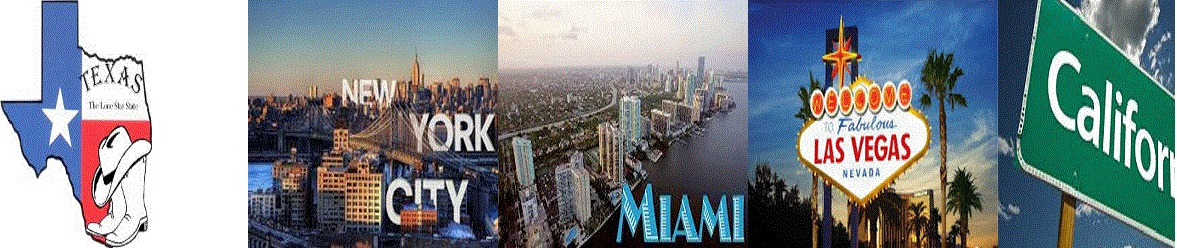
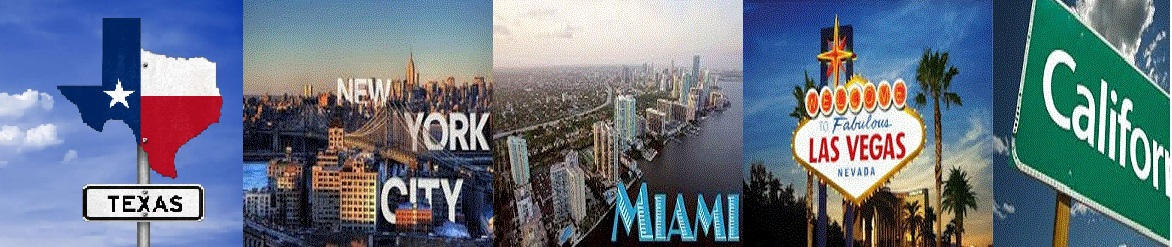
pretty

diff --git a/folderD/a.html b/folderD/a.html
@@ -1,2 +1,1 @@
-<html>  <body bgcolor=black><header ><img src="../folderD/upload/1.jpg" width="70%" height="250px"></header> <table  width="70%" border =2 cellpadding="2" ><tr><td align="center" insert tex
-TEXAS</td><td align="center">  <img src = "../folderD/upload/1.jpg" > </td></tr></table><a href="1.html">   Home  </a></body></html>
+<html>  <body bgcolor=pink><center><header><img src="../folderD/upload/1.jpg" width="80%" height="300px"></header></center> <center><table width="80%" border =2 cellpadding="2"><tr><td align="center">Texas City1</td><td align="center">  <img src = "../folderD/upload/7.jpg" > </td></tr><tr><td align="center"> Texas City1</td><td align="center">  <img src = "../folderD/upload/10.jpg" > </td></tr></table><a href="1.html">   Home  </a></center></body></html>

diff --git a/folderD/1.html b/folderD/1.html
@@ -1,1 +1,1 @@
-<html>  <body bgcolor=><header ><img src="../folderD/upload/maps.jpg" width="100%" height="250px"></header><table  width="70%" border =2 cellpadding="2"> <tr><td align="center"><h5><a href="a.html">N1 </a> </h5></td><td align="center"><h5><a href="b.html">N2 </a> </h5></td><td align="center"><h5><a href="c.html">N3 </a> </h5></td><td align="center"><h5><a href="d.html">N4 </a> </h5></td></tr></table></body></html>
+<html>  <body bgcolor=purple><header ><img src="../folderD/upload/" width="100%" height="250px"></header><table  width="70%" border =2 cellpadding="2"> <tr><td align="center"><h5><a href="a.html">Texas </a> </h5></td><td align="center"><h5><a href="b.html">New York </a> </h5></td></tr></table></body></html>

diff --git a/folderD/b.html b/folderD/b.html
@@ -1,2 +1,13 @@
-<html>  <body bgcolor=pink> <header ><img src="../folderD/upload/4.jpg" width="70%" height="250px"></header>    <table  width="70%" border =2 cellpadding="2" ><tr><td align="center" <h4>insert text
-MIAMI</h4></td><td align="center">  <img src = "../folderD/upload/4.jpg" > </td></tr></table><a href="1.html">   Home  </a></body></html>
+<html>
+<body bgcolor=pink>
+<header><img src="../folderD/upload/4.jpg" width="70%" height="250px"></header>
+<table width="70%" border=2 cellpadding="2">
+    <tr>
+        <td align="center"
+        <h4>insert text
+            MIAMI</h4></td>
+        <td align="center"><img src="../folderD/upload/4.jpg"></td>
+    </tr>
+</table>
+<a href="1.html"> Home </a></body>
+</html>

diff --git a/folderD/SecondPage/a.html b/folderD/SecondPage/a.html
@@ -135,7 +135,7 @@
         $(document).ready(function () {
             // bind 'mainHeaderForm' and provide a simple callback function
             $('#mainHeaderForm').ajaxForm(function (data) {
-                new Messi('Your page has benn saved!!!');
+                new Messi('Your page has been saved!!!');
             });
         });
 

diff --git a/folderD/SecondPage/c.html b/folderD/SecondPage/c.html
@@ -135,7 +135,7 @@
         $(document).ready(function () {
             // bind 'mainHeaderForm' and provide a simple callback function
             $('#mainHeaderForm').ajaxForm(function (data) {
-                new Messi('Your page has benn saved!!!');
+                new Messi('Your page has been saved!!!');
             });
         });
 

diff --git a/folderD/SecondPage/e.html b/folderD/SecondPage/e.html
@@ -135,7 +135,7 @@
         $(document).ready(function () {
             // bind 'mainHeaderForm' and provide a simple callback function
             $('#mainHeaderForm').ajaxForm(function (data) {
-                new Messi('Your page has benn saved!!!');
+                new Messi('Your page has been saved!!!');
             });
         });
 

diff --git a/folderD/SecondPage/d.html b/folderD/SecondPage/d.html
@@ -135,7 +135,7 @@
 		$(document).ready(function () {
 			// bind 'mainHeaderForm' and provide a simple callback function
 			$('#mainHeaderForm').ajaxForm(function (data) {
-				new Messi('Your page has benn saved!!!');
+				new Messi('Your page has been saved!!!');
 			});
 		});
 

diff --git a/folderC/MainB.php b/folderC/MainB.php
@@ -1,50 +1,50 @@
 <?php
-$filename="../folderD/b.html";
+$filename = "../folderD/b.html";
 
-if(isset($_FILES["file"]["tmp_name"])){
-@move_uploaded_file($_FILES["file"]["tmp_name"],"../folderD/upload/". $_FILES["file"]["name"]);
-}
-
-if(isset($_FILES["filebb"]["tmp_name"])){
-@move_uploaded_file($_FILES["filebb"]["tmp_name"],"../folderD/upload/". $_FILES["file"]["name"]);
-}
-if(isset($_FILES["filedd"]["tmp_name"])){
-@move_uploaded_file($_FILES["filedd"]["tmp_name"],"../folderD/upload/". $_FILES["file"]["name"]);
-}
-if(isset($_FILES["fileff"]["tmp_name"])){
-@move_uploaded_file($_FILES["fileff"]["tmp_name"],"../folderD/upload/". $_FILES["file"]["name"]);
-}
-if(isset($_FILES["filehh"]["tmp_name"])){
-@move_uploaded_file($_FILES["filehh"]["tmp_name"],"../folderD/upload/". $_FILES["file"]["name"]);
-}
-if(isset($_FILES["filekk"]["tmp_name"])){
-@move_uploaded_file($_FILES["filekk"]["tmp_name"],"../folderD/upload/". $_FILES["file"]["name"]);
+if (isset($_FILES["file"]["tmp_name"])) {
+    @move_uploaded_file($_FILES["file"]["tmp_name"], "../folderD/upload/" . $_FILES["file"]["name"]);
 }
 
-$fh= @fopen($filename, 'w') or die("can't open file");
-@fwrite($fh, '<html>  <body bgcolor='.$_POST["colorPick"].'>');
-@fwrite($fh, ' <header ><img src="../folderD/upload/'.$_FILES["file"]["name"].'" width="70%" height="250px"></header>   ');
-fwrite($fh, ' <table  width="70%" border =2 cellpadding="2" >');
+if (isset($_FILES["filebb"]["tmp_name"])) {
+    @move_uploaded_file($_FILES["filebb"]["tmp_name"], "../folderD/upload/" . $_FILES["file"]["name"]);
+}
+if (isset($_FILES["filedd"]["tmp_name"])) {
+    @move_uploaded_file($_FILES["filedd"]["tmp_name"], "../folderD/upload/" . $_FILES["file"]["name"]);
+}
+if (isset($_FILES["fileff"]["tmp_name"])) {
+    @move_uploaded_file($_FILES["fileff"]["tmp_name"], "../folderD/upload/" . $_FILES["file"]["name"]);
+}
+if (isset($_FILES["filehh"]["tmp_name"])) {
+    @move_uploaded_file($_FILES["filehh"]["tmp_name"], "../folderD/upload/" . $_FILES["file"]["name"]);
+}
+if (isset($_FILES["filekk"]["tmp_name"])) {
+    @move_uploaded_file($_FILES["filekk"]["tmp_name"], "../folderD/upload/" . $_FILES["file"]["name"]);
+}
 
-if(( @$_POST["aaTextarea"] != '' || isset($_FILES["filebb"]["tmp_name"])) && @$_POST["delA"] != "no" ){
-fwrite($fh,'<tr><td align="center" <h4>'.$_POST["aaTextarea"].'</h4></td>');
-@fwrite($fh, '<td align="center">  <img src = "../folderD/upload/'.$_FILES["filebb"]["name"].'" > </td></tr>');
+$fh = @fopen($filename, 'w') or die("can't open file");
+@fwrite($fh, '<html>  <body bgcolor=' . $_POST["colorPick"] . '>');
+@fwrite($fh, ' <header ><img src="../folderD/upload/' . $_FILES["file"]["name"] . '" width="80%" height="300px"></header>   ');
+fwrite($fh, ' <table  width="80%" border =2 cellpadding="2" >');
+
+if ((@$_POST["aaTextarea"] != '' || isset($_FILES["filebb"]["tmp_name"])) && @$_POST["delA"] != "no") {
+    fwrite($fh, '<tr><td align="center" <h4>' . $_POST["aaTextarea"] . '</h4></td>');
+    @fwrite($fh, '<td align="center">  <img src = "../folderD/upload/' . $_FILES["filebb"]["name"] . '" > </td></tr>');
 }
-if(( @$_POST["ccTextarea"] != '' || isset($_FILES["filedd"]["tmp_name"])) && @$_POST["delB"] != "no" ){
-fwrite($fh,'<tr><td align="center" <h4>'.$_POST["aaTextarea"].'</h4></td>');
-@fwrite($fh, '<td align="center">  <img src = "../folderD/upload/'.$_FILES["filedd"]["name"].'" > </td></tr>');
+if ((@$_POST["ccTextarea"] != '' || isset($_FILES["filedd"]["tmp_name"])) && @$_POST["delB"] != "no") {
+    fwrite($fh, '<tr><td align="center" <h4>' . $_POST["aaTextarea"] . '</h4></td>');
+    @fwrite($fh, '<td align="center">  <img src = "../folderD/upload/' . $_FILES["filedd"]["name"] . '" > </td></tr>');
 }
-if(( @$_POST["eeTextarea"] != '' || isset($_FILES["fileff"]["tmp_name"])) && @$_POST["delC"] != "no"){
-fwrite($fh,'<tr><td align="center" <h4>'.$_POST["aaTextarea"].'</h4></td>');
-@fwrite($fh, '<td align="center">  <img src = "../folderD/upload/'.$_FILES["fileff"]["name"].'" > </td></tr>');
+if ((@$_POST["eeTextarea"] != '' || isset($_FILES["fileff"]["tmp_name"])) && @$_POST["delC"] != "no") {
+    fwrite($fh, '<tr><td align="center" <h4>' . $_POST["aaTextarea"] . '</h4></td>');
+    @fwrite($fh, '<td align="center">  <img src = "../folderD/upload/' . $_FILES["fileff"]["name"] . '" > </td></tr>');
 }
-if(( @$_POST["ggTextarea"] != '' || isset($_FILES["filehh"]["tmp_name"])) && @$_POST["delD"] != "no"){
-fwrite($fh,'<tr><td align="center" <h4>'.$_POST["aaTextarea"].'</h4></td>');
-@fwrite($fh, '<td align="center">  <img src = "../folderD/upload/'.$_FILES["filehh"]["name"].'" > </td></tr>');
+if ((@$_POST["ggTextarea"] != '' || isset($_FILES["filehh"]["tmp_name"])) && @$_POST["delD"] != "no") {
+    fwrite($fh, '<tr><td align="center" <h4>' . $_POST["aaTextarea"] . '</h4></td>');
+    @fwrite($fh, '<td align="center">  <img src = "../folderD/upload/' . $_FILES["filehh"]["name"] . '" > </td></tr>');
 }
-if((@$_POST["jjTextarea"] != '' || isset($_FILES["filekk"]["tmp_name"])) && @$_POST["delE"] != "no"){
-fwrite($fh,'<tr><td align="center" <h4>'.$_POST["aaTextarea"].'</h4></td>');
-@fwrite($fh, '<td align="center">  <img src = "../folderD/upload/'.$_FILES["filekk"]["name"].'" > </td></tr>');
+if ((@$_POST["jjTextarea"] != '' || isset($_FILES["filekk"]["tmp_name"])) && @$_POST["delE"] != "no") {
+    fwrite($fh, '<tr><td align="center" <h4>' . $_POST["aaTextarea"] . '</h4></td>');
+    @fwrite($fh, '<td align="center">  <img src = "../folderD/upload/' . $_FILES["filekk"]["name"] . '" > </td></tr>');
 }
 fwrite($fh, '</table>');
 fwrite($fh, '<a href="1.html">   Home  </a>');

diff --git a/folderC/MainA.php b/folderC/MainA.php
@@ -4,7 +4,6 @@ $filename = "../folderD/a.html";
 if (isset($_FILES["file"]["tmp_name"])) {
     @move_uploaded_file($_FILES["file"]["tmp_name"], "../folderD/upload/" . $_FILES["file"]["name"]);
 }
-
 if (isset($_FILES["filebb"]["tmp_name"])) {
     @move_uploaded_file($_FILES["filebb"]["tmp_name"], "../folderD/upload/" . $_FILES["file"]["name"]);
 }
@@ -24,33 +23,32 @@ if (isset($_FILES["filekk"]["tmp_name"])) {
 
 $fh = @fopen($filename, 'w') or die("can't open file");
 @fwrite($fh, '<html>  <body bgcolor=' . $_POST["colorPick"] . '>');
-@fwrite($fh, '<header ><img src="../folderD/upload/' . $_FILES["file"]["name"] . '" width="70%" height="250px"></header> ');
-fwrite($fh, '<table  width="70%" border =2 cellpadding="2" >');
+@fwrite($fh, '<center><header><img src="../folderD/upload/' . $_FILES["file"]["name"] . '" width="80%" height="300px"></header></center> ');
+fwrite($fh, '<center><table width="80%" border =2 cellpadding="2">');
 
 if ((@$_POST["aaTextarea"] != '' || isset($_FILES["filebb"]["tmp_name"])) && @$_POST["delA"] != "no") {
-    fwrite($fh, '<tr><td align="center" ' . $_POST["aaTextarea"] . '</td>');
+    fwrite($fh, '<tr><td align="center">' . $_POST["aaTextarea"] . '</td>');
     @fwrite($fh, '<td align="center">  <img src = "../folderD/upload/' . $_FILES["filebb"]["name"] . '" > </td></tr>');
 }
 if ((@$_POST["ccTextarea"] != '' || isset($_FILES["filedd"]["tmp_name"])) && @$_POST["delB"] != "no") {
-    fwrite($fh, '<tr><td align="center" ' . $_POST["aaTextarea"] . '</td>');
+    fwrite($fh, '<tr><td align="center"> ' . $_POST["aaTextarea"] . '</td>');
     @fwrite($fh, '<td align="center">  <img src = "../folderD/upload/' . $_FILES["filedd"]["name"] . '" > </td></tr>');
 }
 if ((@$_POST["eeTextarea"] != '' || isset($_FILES["fileff"]["tmp_name"])) && @$_POST["delC"] != "no") {
-    fwrite($fh, '<tr><td align="center" <p style="-webkit-text-size-adjust: auto">' . $_POST["aaTextarea"] . '</p></td>');
+    fwrite($fh, '<tr><td align="center"> <p style="-webkit-text-size-adjust: auto">' . $_POST["aaTextarea"] . '</p></td>');
     @fwrite($fh, '<td align="center">  <img src = "../folderD/upload/' . $_FILES["fileff"]["name"] . '" > </td></tr>');
 }
 if ((@$_POST["ggTextarea"] != '' || isset($_FILES["filehh"]["tmp_name"])) && @$_POST["delD"] != "no") {
-    fwrite($fh, '<tr><td align="center" ' . $_POST["aaTextarea"] . '</td>');
+    fwrite($fh, '<tr><td align="center"> ' . $_POST["aaTextarea"] . '</td>');
     @fwrite($fh, '<td align="center">  <img src = "../folderD/upload/' . $_FILES["filehh"]["name"] . '" > </td></tr>');
 }
 if ((@$_POST["jjTextarea"] != '' || isset($_FILES["filekk"]["tmp_name"])) && @$_POST["delE"] != "no") {
-    fwrite($fh, '<tr><td align="center" ' . $_POST["aaTextarea"] . '</td>');
+    fwrite($fh, '<tr><td align="center"> ' . $_POST["aaTextarea"] . '</td>');
     @fwrite($fh, '<td align="center">  <img src = "../folderD/upload/' . $_FILES["filekk"]["name"] . '" > </td></tr>');
 }
 fwrite($fh, '</table>');
 fwrite($fh, '<a href="1.html">   Home  </a>');
 
-
-fwrite($fh, '</body></html>');
+fwrite($fh, '</center></body></html>');
 fclose($fh);
 ?>

diff --git a/folderC/MainC.php b/folderC/MainC.php
@@ -4,7 +4,6 @@ $filename="../folderD/c.html";
 if(isset($_FILES["file"]["tmp_name"])){
 @move_uploaded_file($_FILES["file"]["tmp_name"],"../folderD/upload/". $_FILES["file"]["name"]);
 }
-
 if(isset($_FILES["filebb"]["tmp_name"])){
 @move_uploaded_file($_FILES["filebb"]["tmp_name"],"../folderD/upload/". $_FILES["file"]["name"]);
 }
@@ -21,12 +20,10 @@ if(isset($_FILES["filekk"]["tmp_name"])){
 @move_uploaded_file($_FILES["filekk"]["tmp_name"],"../folderD/upload/". $_FILES["file"]["name"]);
 }
 
-
-
 $fh= @fopen($filename, 'w') or die("can't open file");
 @fwrite($fh, '<html>  <body bgcolor='.$_POST["colorPick"].'>');
-@fwrite($fh, ' <header ><img src="../folderD/upload/'.$_FILES["file"]["name"].'" width="70%" height="250px"></header>   ');
-fwrite($fh, ' <table  width="70%" border =2 cellpadding="2" >');
+@fwrite($fh, ' <header ><img src="../folderD/upload/'.$_FILES["file"]["name"].'" width="90%" height="300px"></header>   ');
+fwrite($fh, ' <table  width="80%" border =2 cellpadding="2" >');
 
 if(( @$_POST["aaTextarea"] != '' || isset($_FILES["filebb"]["tmp_name"])) && @$_POST["delA"] != "no" ){
 fwrite($fh,'<tr><td align="center" <h4>'.$_POST["aaTextarea"].'</h4></td>');
